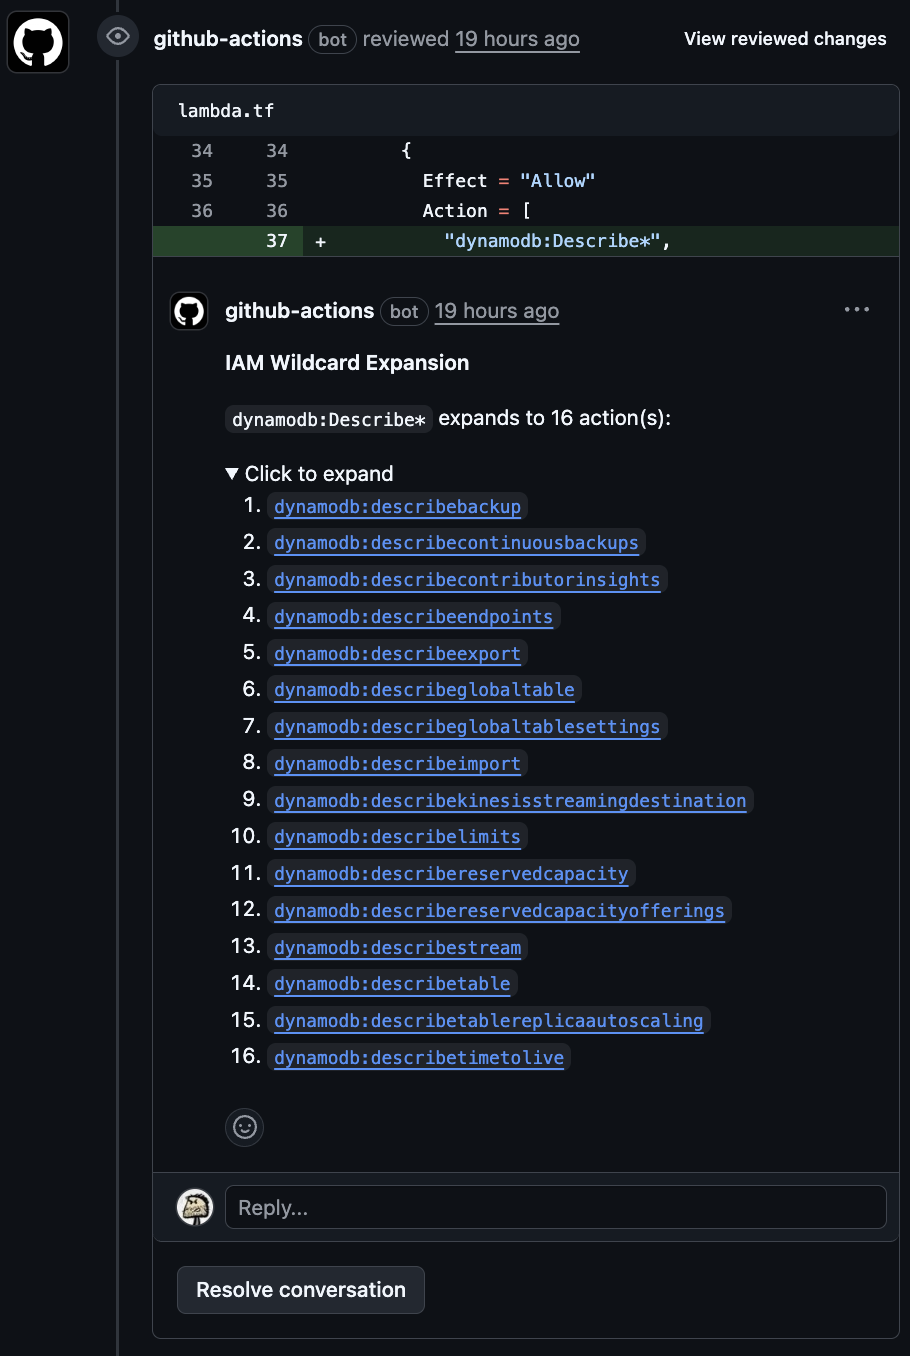
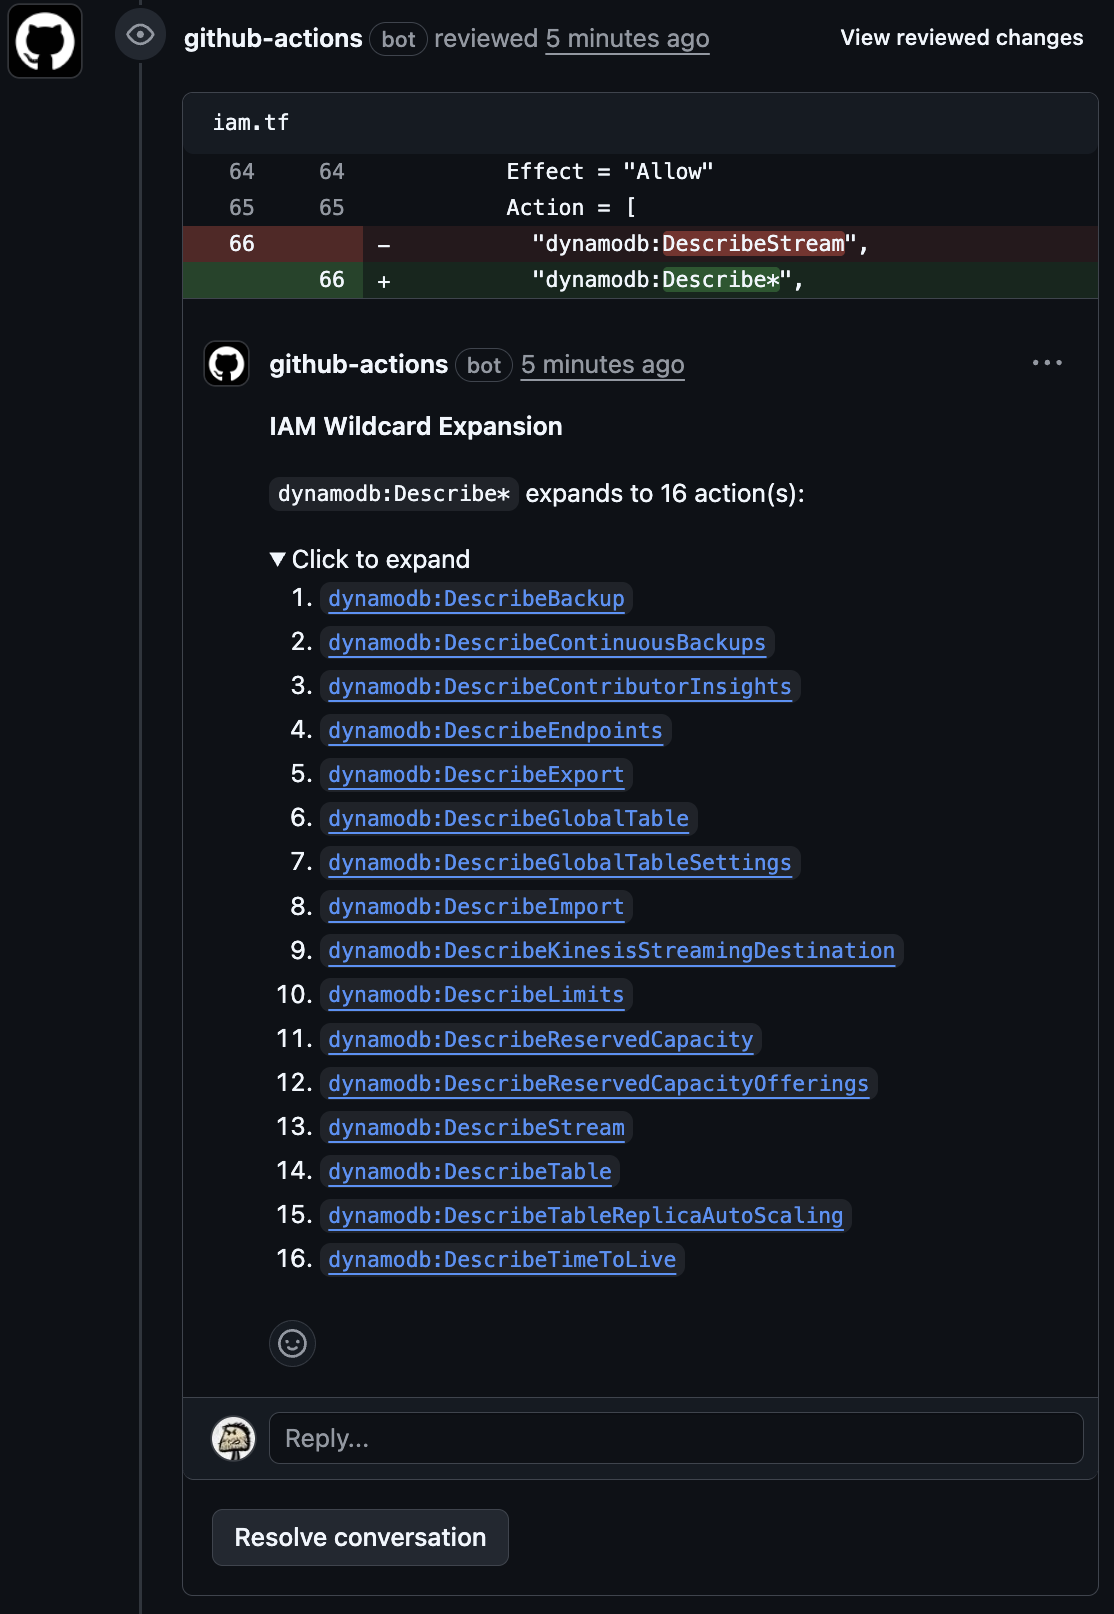
Update screenshot in README to have new proper casing on IAM actions
Also
1. updated readme with advice about forking.
1. staged changelog for next release

diff --git a/README.md b/README.md
@@ -103,7 +103,8 @@ Default file patterns: `**/*.json,**/*.yaml,**/*.yml,**/*.tf,**/*.ts,**/*.js`
 - **No external calls** - IAM data bundled at build time (automatically updated weekly)
 - **Auditable** - ~500 lines of TypeScript, `dist/index.js` committed
 
-For strict environments, pin to a full semver or SHA:
+For tighter control, fork the repo or pin to a full semver or SHA. With a fork, you have complete control and can choose when or if
+you update.
 
 ```yaml
 uses: thekbb/expand-aws-iam-wildcards@v1.1.4

diff --git a/CHANGELOG.md b/CHANGELOG.md
@@ -7,6 +7,11 @@ and this project adheres to [Semantic Versioning](https://semver.org/spec/v2.0.0
 
 ## [Unreleased]
 
+### Changed
+
+- Change IAM action casing to use the action name from the data object rather than the object key
+  `dynamodb:DescribeBackup`, rather than `dynamodb:describebackup`
+
 ## [1.1.6] - 2026-01-28
 
 ### Changed
